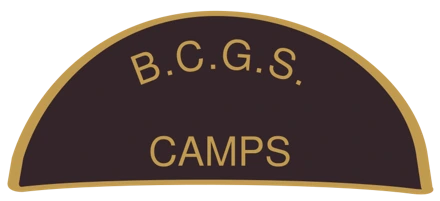
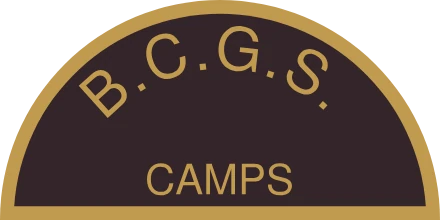
S56-O33, O34 and O37: one constructed semicircle, and O37 reads Ferries
The three gold-edged arches from the S56 collector board are the same blank
as the Parks Branch semicircles, but the atlas drew each one freehand and
flattened, with a different curve each time. bc-parks-semicircles/compose.mjs
now builds them on the Parks Branch construction (a true semicircle, its
field the exact inset by a border of 3, an arc caption and straight lower
lines at even clearances), in the atlas's field and gold. The Parks drawings
rebuild byte for byte.

Fitted to the photograph: S56-O34's B.C.G.S. is larger and spread over about
±42°, and S56-O37's BRITISH COLUMBIA is larger and runs over about ±62°.

S56-O37's lower line reads FERRIES, not the atlas's SHERIFFS. It is set from
the atlas's SHERIFFS outlines, relabelled British Columbia / Ferries and filed
under a new BC Ferries organization (Crown corporations). The three arches
share one template family, gold-arch-semicircle, which replaces
bcgs-semicircle.

Claude-Session: https://claude.ai/code/session_017XFCamVLpDmi7M6AWqHKc4

Changed region(s): [[0.0, 0.0, 1.0, 1.0], [0.7091, 0.4478, 0.7386, 0.5075]]

diff --git a/library/supplied/bc-parks-semicircles/README.md b/library/supplied/bc-parks-semicircles/README.md
@@ -1,7 +1,8 @@
 # BC Parks semicircles, constructed
 
-The four BC Parks semicircle patches, rebuilt as exact geometry by `compose.mjs` instead of the
-atlas's freehand curves:
+The four BC Parks semicircle patches, and three gold-edged arches from the S56 collector board
+that share their shape, rebuilt as exact geometry by `compose.mjs` instead of the atlas's
+freehand curves:
 
 | Patch | Upper | Lower |
 |---|---|---|
@@ -9,6 +10,9 @@ atlas's freehand curves:
 | S29-O02 Parks Branch, yellow | BRITISH COLUMBIA on an arc | PARKS BRANCH |
 | S29-O04 Parks Branch, dark | BRITISH COLUMBIA on an arc | PARKS BRANCH |
 | S30-O02 BC Parks flag | PofBC's flag badge (`../bc-parks-flag-badge/source/`) | |
+| S56-O33 B.C.G.S. Alouette River Unit | ALOUETTE RIVER on an arc | UNIT over B.C.G.S. |
+| S56-O34 B.C.G.S. Camps | B.C.G.S. on an arc | CAMPS |
+| S56-O37 BC Ferries | BRITISH COLUMBIA on an arc | FERRIES |
 
 - **Edge:** a true semicircle, radius 48 in the atlas's master units (its patches are 96 wide).
 - **Field:** the edge inset by the border width (3, or 3.5 on the flag patch) everywhere: an arc
@@ -21,6 +25,15 @@ atlas's freehand curves:
   set it.
 - **Flag badge:** scaled to the largest box of its proportions whose corners stay 2.6 inside the
   field, centred.
+
+**The gold-edged arches** take the same edge, field and clearances (border 3), in the atlas's
+dark field and gold. The atlas drew each one flatter than a semicircle, a different freehand curve
+each time, so its arc wording spans the turn it gave the first and last letters rather than their
+position. Three changes follow the collector-board photograph: S56-O34's B.C.G.S. is set 1.4 times
+larger over about ±42° (the atlas bunched it at the top); S56-O37's BRITISH COLUMBIA is set
+1.25 times larger over about ±62°; and S56-O37's lower line reads FERRIES, not the atlas's
+SHERIFFS, set from the atlas's own SHERIFFS outlines (every letter of FERRIES is in it) with the
+same spacing. S56-O33's UNIT sits above B.C.G.S. at the atlas's line spacing.
 
 The letter outlines, their sizes and the colours are the atlas reconstruction's (each Parks Branch
 edition has its own face), so only the construction changes. Previews are the composed SVGs

diff --git a/library/README.md b/library/README.md
@@ -128,7 +128,7 @@ preview, quality line and limitations:
 | S31-O01 Recreation and Conservation / Parks | `supplied/bc-parks-recreation-conservation/`: a supplied vector package, used whole |
 | S30-O04, S27-O04 scenic arch, Parks and Parks · Ranger | `supplied/bc-parks-scenic-arch/`: the atlas arch and lettering with a supplied landscape in the window (`compose.mjs`) |
 | S30-O01 BC Parks flag, rounded square | `supplied/bc-parks-flag-badge/`: PofBC's flag badge, whole (`compose.mjs`) |
-| S29-O01, S29-O02, S29-O04 Parks Branch semicircles; S30-O02 BC Parks flag semicircle | `supplied/bc-parks-semicircles/`: constructed geometry (a true semicircle, its field the exact inset, concentric arc lettering), with the atlas's letters or PofBC's flag badge (`compose.mjs`) |
+| S29-O01, S29-O02, S29-O04 Parks Branch semicircles; S30-O02 BC Parks flag semicircle; S56-O33, S56-O34 B.C.G.S. and S56-O37 BC Ferries gold arches | `supplied/bc-parks-semicircles/`: constructed geometry (a true semicircle, its field the exact inset, concentric arc lettering), with the atlas's letters or PofBC's flag badge (`compose.mjs`) |
 | S56-O21 B.C. Hydro Security shield | `supplied/bc-hydro-security/`: the atlas shield with PofBC's BC Hydro symbol in place of its plain H (`compose.mjs`) |
 | MC30-O01 Conservation Officer / BC Environment | `supplied/bc-co-environment-flag/`: the atlas shield with the waving flag of PofBC's BC Parks flag badge beside BC (`compose.mjs`) |
 | MC09-O02 Wildlife Protection / Division | `supplied/moosecop-division-flash/`: the regular felt flash's rocker merged with a box, the outline their exact union, with the atlas's lettering (`compose.mjs`) |
